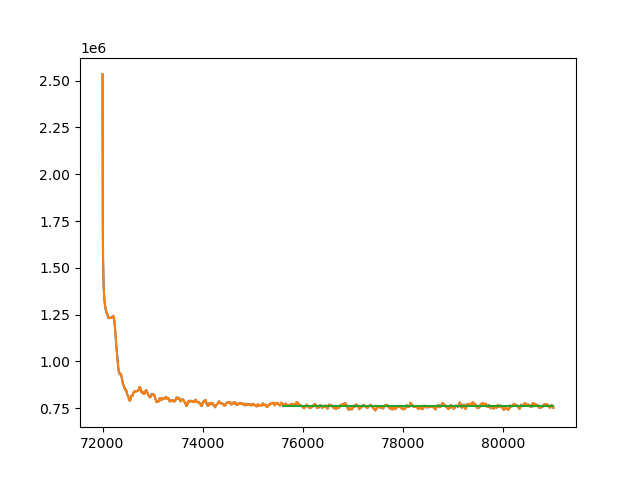
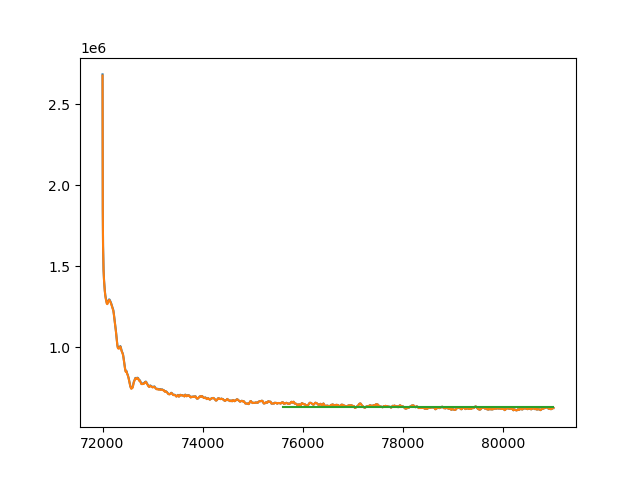
Predict farm-scale losses using shear stress files

diff --git a/predict_farm_scale_loss.py b/predict_farm_scale_loss.py
@@ -1,5 +1,5 @@
 """Predict turbine-scale and
-farm-scale loss factors usig equation A5
+farm-scale loss factors using equation A5
 in https://doi.org/10.1017/jfm.2023.844
 
 See https://doi.org/10.1017/jfm.2022.979 
@@ -13,9 +13,8 @@ import numpy as np
 import scipy.interpolate as sp
 import scipy.optimize as opt
 import matplotlib.pyplot as plt
-
-#load LES data from precursor and single turbine simulations
-LES_data = np.genfromtxt('LES_data.csv', delimiter=',', dtype=None, names=True, encoding=None)
+from sklearn.preprocessing import PolynomialFeatures
+from sklearn.linear_model import LinearRegression
 
 #load csv file to store results
 loss_factors = np.genfromtxt('loss_factors.csv', delimiter=',', dtype=None, names=True, encoding=None)
@@ -47,18 +46,17 @@ M_shapiro = M_shapiro + 1
 M_shapiro = M_shapiro**(-1)
 ctstar = 0.88 / (M_shapiro**2)
 
-for case_no in range(13,15):
+for case_no in range(50):
 
-    case_id = LES_data[case_no][0]
+    case_id = loss_factors[case_no][0]
     print(case_id)
-    u_star0 = LES_data[case_no][1]
 
     ##############################################
     # 1. Calculate U_F0
     ##############################################
 
     #open precursor file
-    f = h5py.File(f'/mnt/d/LES_data/{case_id}/stat_precursor_first_order.h5', 'r')
+    f = h5py.File(f'/mnt/e/LES_data/{case_id}/stat_precursor_first_order.h5', 'r')
     u = f['u']
     v = f['v']
 
@@ -67,7 +65,7 @@ for case_no in range(13,15):
     v = np.mean(v[:,:,:100], axis=(0,1))
 
     #vertical grid - use cell centered points  
-    with open('/mnt/d/LES_data/zmesh','r') as file:       
+    with open('/mnt/e/LES_data/zmesh','r') as file:       
         Nz_full     = int(float(file.readline()))   
         N_line = Nz_full+1
         line = N_line*[0]
@@ -98,12 +96,46 @@ for case_no in range(13,15):
     u_f0 = np.mean(u_farm_layer)*np.cos(angle_hubh) + np.mean(v_farm_layer)*np.sin(angle_hubh)
 
     #################################
-    # 7. Calculate C_{p,Nishino}
+    # 2. Calculate u_star0 from
+    # precursor simulation
     #################################
 
-    array_density = np.pi/(4*5*5)
+    #open shear stress file
+    f = h5py.File(f'/mnt/e/LES_data/{case_id}/stat_precursor_second_order.h5', 'r')
+    uw = f['uw']
+    #open sub-grid shear stress file
+    f = h5py.File(f'/mnt/e/LES_data/{case_id}/stat_precursor_second_order_sgs.h5', 'r')
+    uw_sgs = f['uw_sgs']
+
+    uw_profile = np.mean(uw[:,:,:100]+uw_sgs[:,:,:100],axis=(0,1))
+    interp_uw = sp.interp1d(1000*z[:100], 
+    uw_profile, bounds_error=False, fill_value='extrapolate')
+
+    #fit 2nd order polynomial to uw shear stress profile between z=20m and z=200m
+    poly = PolynomialFeatures(degree=2, include_bias=False)
+    x = 1000*z[np.logical_and(1000*z>20,1000*z<200)]
+    y = uw_profile[np.logical_and(1000*z[:100]>20,1000*z[:100]<200)]
+    poly_features = poly.fit_transform(x.reshape(-1, 1))
+    poly_reg_model = LinearRegression()
+    poly_reg_model.fit(poly_features, y)
+    x_test = np.linspace(0,200,101)
+    test_features = poly.fit_transform(x_test.reshape(-1, 1))
+    y_test = poly_reg_model.predict(test_features)
+    #extrapolate shear stress at surface
+    tau_w0 = y_test[0]
+    u_star0 = np.sqrt(np.abs(tau_w0))
+    #interpolate shear stress at z = 2.5H_{hub}
+    tau_t0 = interp_uw(h_f)
+    #shear stress ratio tau_t0/tau_w0
+    shear_ratio = tau_t0/tau_w0
+
+    #################################
+    # 3. Calculate C_{p,Nishino}
+    #################################
+
+    #turbine rotor area divided surface area per turbine
     cf0 = u_star0**2/(0.5*u_f0**2)
-    shear_ratio = LES_data[case_no][3]
+    #wind `extractability' factor
     zeta = 1.18 + (2.18*h_f)/(cf0*farm_length*(1-shear_ratio))
 
     def ndfm(beta):
@@ -117,7 +149,7 @@ for case_no in range(13,15):
     power_ratio_nishino = beta**3
 
     #################################
-    # 8. Calculate turbine-scale and
+    # 4. Calculate turbine-scale and
     #farm-scale loss factors
     #################################
 

diff --git a/plot_precursor_stress_profile.py b/plot_precursor_stress_profile.py
@@ -1,0 +1,117 @@
+import h5py
+import matplotlib.pyplot as plt
+import numpy as np
+import scipy.interpolate as sp
+from sklearn.preprocessing import PolynomialFeatures
+from sklearn.linear_model import LinearRegression
+
+case_id = 'H300-C2-G8'
+
+#vertical grid - use cell centered points  
+with open('/mnt/e/LES_data/zmesh','r') as file:       
+    Nz_full     = int(float(file.readline()))   
+    N_line = Nz_full+1
+    line = N_line*[0]
+    cnt = 0
+    for lines in file:
+        line[cnt]=lines.split()
+        cnt+=1       
+    z = np.array([float(line[k][0]) for k in range(int(Nz_full))])[1::2]
+
+#open shear stress file
+f = h5py.File(f'/mnt/e/LES_data/{case_id}/stat_precursor_second_order.h5', 'r')
+uw = f['uw']
+vw = f['vw']
+#open sub-grid shear stress file
+f = h5py.File(f'/mnt/e/LES_data/{case_id}/stat_precursor_second_order_sgs.h5', 'r')
+uw_sgs = f['uw_sgs']
+vw_sgs = f['vw_sgs']
+
+uw_profile = np.mean(uw[:,:,:100]+uw_sgs[:,:,:100],axis=(0,1))
+vw_profile = np.mean(vw[:,:,:100]+vw_sgs[:,:,:100],axis=(0,1))
+
+
+interp_uw = sp.interp1d(1000*z[:100], 
+uw_profile, bounds_error=False, fill_value='extrapolate')
+
+poly = PolynomialFeatures(degree=2, include_bias=False)
+x = 1000*z[np.logical_and(1000*z>20,1000*z<200)]
+y = uw_profile[np.logical_and(1000*z[:100]>20,1000*z[:100]<200)]
+poly_features = poly.fit_transform(x.reshape(-1, 1))
+poly_reg_model = LinearRegression()
+poly_reg_model.fit(poly_features, y)
+x_test = np.linspace(0,200,101)
+test_features = poly.fit_transform(x_test.reshape(-1, 1))
+y_test = poly_reg_model.predict(test_features)
+tau0 = y_test[0]
+print(interp_uw(2.5*119))
+print(tau0)
+
+plt.plot(uw_profile, 1000*z[:100], label='uw+uw_sgs')
+plt.plot(y_test, x_test, linestyle='--', c='k')
+plt.plot(vw_profile, 1000*z[:100], label='vw+vw_sgs')
+plt.legend()
+plt.xlabel('Shear stress (m^2/s^2)')
+plt.ylabel('z (m)')
+plt.ylim([0,500])
+plt.axvline(-0.552*0.275**2)
+plt.axvline(-0.275**2)
+plt.axhline(2.5*119)
+
+plt.savefig('plots/precursor_shear_stress.png')
+
+
+case_id = 'H300-C5-G1'
+
+#vertical grid - use cell centered points  
+with open('/mnt/e/LES_data/zmesh','r') as file:       
+    Nz_full     = int(float(file.readline()))   
+    N_line = Nz_full+1
+    line = N_line*[0]
+    cnt = 0
+    for lines in file:
+        line[cnt]=lines.split()
+        cnt+=1       
+    z = np.array([float(line[k][0]) for k in range(int(Nz_full))])[1::2]
+
+#open shear stress file
+f = h5py.File(f'/mnt/e/LES_data/{case_id}/stat_precursor_second_order.h5', 'r')
+uw = f['uw']
+vw = f['vw']
+#open sub-grid shear stress file
+f = h5py.File(f'/mnt/e/LES_data/{case_id}/stat_precursor_second_order_sgs.h5', 'r')
+uw_sgs = f['uw_sgs']
+vw_sgs = f['vw_sgs']
+
+uw_profile = np.mean(uw[:,:,:100]+uw_sgs[:,:,:100],axis=(0,1))
+vw_profile = np.mean(vw[:,:,:100]+vw_sgs[:,:,:100],axis=(0,1))
+
+
+interp_uw = sp.interp1d(1000*z[:100], 
+uw_profile, bounds_error=False, fill_value='extrapolate')
+
+poly = PolynomialFeatures(degree=2, include_bias=False)
+x = 1000*z[np.logical_and(1000*z>20,1000*z<200)]
+y = uw_profile[np.logical_and(1000*z[:100]>20,1000*z[:100]<200)]
+poly_features = poly.fit_transform(x.reshape(-1, 1))
+poly_reg_model = LinearRegression()
+poly_reg_model.fit(poly_features, y)
+x_test = np.linspace(0,200,101)
+test_features = poly.fit_transform(x_test.reshape(-1, 1))
+y_test = poly_reg_model.predict(test_features)
+tau0 = y_test[0]
+print(interp_uw(2.5*119))
+print(tau0)
+
+plt.plot(uw_profile, 1000*z[:100], label='uw+uw_sgs')
+plt.plot(y_test, x_test, linestyle='--', c='k')
+plt.plot(vw_profile, 1000*z[:100], label='vw+vw_sgs')
+plt.legend()
+plt.xlabel('Shear stress (m^2/s^2)')
+plt.ylabel('z (m)')
+plt.ylim([0,500])
+plt.axvline(-0.552*0.275**2)
+plt.axvline(-0.275**2)
+plt.axhline(2.5*119)
+
+plt.savefig('plots/precursor_shear_stress.png')

diff --git a/calculate_turbine_scale_loss.py b/calculate_turbine_scale_loss.py
@@ -19,7 +19,7 @@ LES_data = np.genfromtxt('LES_data.csv', delimiter=',', dtype=None, names=True, 
 #load csv file to store results
 loss_factors = np.genfromtxt('loss_factors.csv', delimiter=',', dtype=None, names=True, encoding=None)
 
-for case_no in range(13,14):
+for case_no in range(17,40):
 
     case_id = LES_data[case_no][0]
     print(case_id)

diff --git a/README.md b/README.md
@@ -15,11 +15,7 @@ Load conda environment
 ```
 conda activate LES_CNBL
 ```
-Calculate turbine thrust coefficients and plot figures in plots/ folder (file paths for LES data need to be changed in this script!)
+Predict farm-scale loss factors for wind farms
 ```
-python calculate_thrust_coefficient.py
-```
-Calculate turbine power coefficients and plot figures in plots/ folder (file paths for LES data need to be changed in this script!)
-```
-python calculate_power_coefficient.py
+python predict_farm_scale_loss.py
 ```
